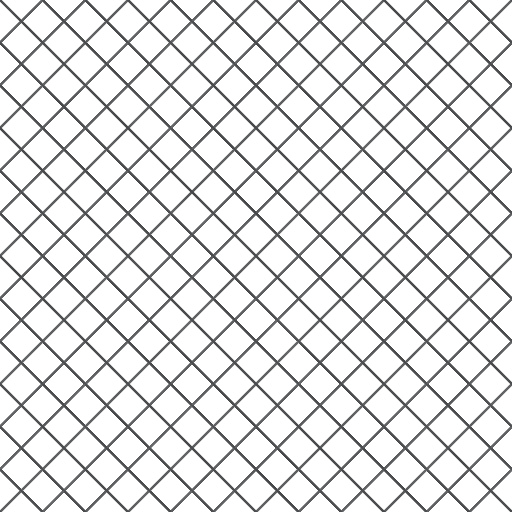
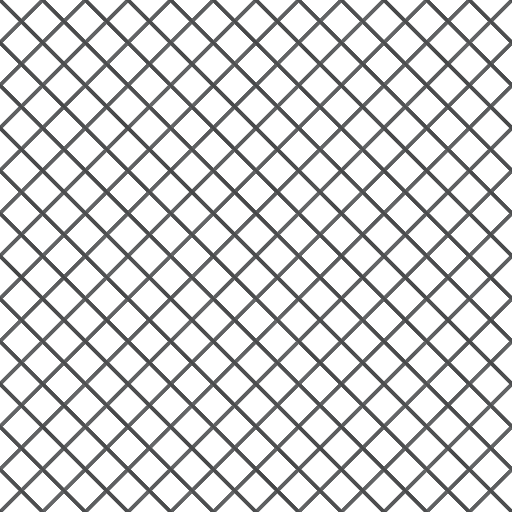
vehicle-pad round 2, part 7 (after the first game pictures): roads follow the ground down as well as up (a quarter metre of fill over the grade line, no floor at the pad plane), fill as crushed dark basalt (finer, no warm tint), heavier fence wire, stronger apron pools, the origin-gap check of the g

diff --git a/src/render/vehicle/site/ground.ts b/src/render/vehicle/site/ground.ts
@@ -120,9 +120,10 @@ export function stationsAlong(pts: [number, number][], spacing: number): Station
 /**
  * Grade line of a strip `halfWidth` wide along stations 2 m apart: over every station the highest ground
  * across the strip, then its running maximum over +-`reach` metres, smoothed over the same reach (the mean of
- * running maxima never falls under the ground it was taken from), never under `floor`.
+ * running maxima never falls under the ground it was taken from). The line follows the terrain down as well
+ * as up: a road is a hand's breadth of fill on the ground it crosses, not a causeway at the pad's level.
  */
-function gradeLine(ground: GroundField, st: Station[], halfWidth: number, reach: number, floor: number): number[] {
+function gradeLine(ground: GroundField, st: Station[], halfWidth: number, reach: number): number[] {
   const hi = st.map((q) => {
     let h = -Infinity;
     for (let k = -2; k <= 2; k++) h = Math.max(h, ground.hi(q.p[0] + (q.n[0] * halfWidth * k) / 2, q.p[1] + (q.n[1] * halfWidth * k) / 2));
@@ -142,7 +143,7 @@ function gradeLine(ground: GroundField, st: Station[], halfWidth: number, reach:
       sum += top[k]!;
       n++;
     }
-    return Math.max(floor, sum / n);
+    return sum / n;
   });
 }
 
@@ -184,14 +185,15 @@ function stoneField(b: MeshBuilder, ground: GroundField, cx: number, cz: number,
 }
 
 /**
- * Road along a plan path: a crowned asphalt strip on fill, stone shoulders that slope below the terrain,
- * and edge lines. `lift` lowers later roads by a hair where two meet (no two pavements in one plane).
+ * Road along a plan path: a crowned asphalt strip on `cover` metres of fill over its grade line, stone
+ * shoulders that slope below the terrain, and edge lines. `lift` lowers later roads by a hair where two
+ * meet (no two pavements in one plane).
  */
-function road(b: MeshBuilder, ground: GroundField, path: [number, number][], width: number, y: number, lift: number, grime: (x: number, z: number) => number): void {
+function road(b: MeshBuilder, ground: GroundField, path: [number, number][], width: number, cover: number, lift: number, grime: (x: number, z: number) => number): void {
   const hw = width / 2;
   const sh = 1.6;
   const fine = stationsAlong(path, 2);
-  const grade = gradeLine(ground, fine, hw + sh, 10, y);
+  const grade = gradeLine(ground, fine, hw + sh, 10);
   const every = b.pick(2, 4, 12);
   const pick: number[] = [];
   for (let i = 0; i < fine.length - 1; i += every) pick.push(i);
@@ -200,7 +202,7 @@ function road(b: MeshBuilder, ground: GroundField, path: [number, number][], wid
   const st = pick.map((i) => {
     let g = -Infinity;
     for (let k = Math.max(0, i - every + 1); k <= Math.min(fine.length - 1, i + every - 1); k++) g = Math.max(g, grade[k]!);
-    return { q: fine[i]!, y: g + 0.1 + lift };
+    return { q: fine[i]!, y: g + cover + lift };
   });
   // Offsets across the road and their heights over the grade: foot, shoulder top, edge, crown, edge, top, foot.
   const cross: [number, number][] = [
@@ -331,6 +333,9 @@ function berm(b: MeshBuilder, ground: GroundField, cx: number, cz: number, r: nu
   }
 }
 
+/** Fill and pavement of a road over the highest ground along it, m. */
+const ROAD_COVER = 0.25;
+
 /** Height of a road lamp post and the reach of its arm, m. */
 const POLE_HEIGHT = 9;
 const POLE_ARM = 1.8;
@@ -393,7 +398,8 @@ export const padGroundworks: SiteGenerator = ({ params, ground }) => {
       };
       stoneField(b, ground, p.x, p.z, 0.5, rr, y - 0.02, step, grime, 'stone');
     });
-    roads.forEach((r, i) => road(b, ground, r.path, r.width, y + 0.04, -0.014 * i, grime));
+    // (On the level areas the survey's upper bound is 5 cm, so a road meets a 0.3 m slab at its own height.)
+    roads.forEach((r, i) => road(b, ground, r.path, r.width, ROAD_COVER, -0.014 * i, grime));
     if (b.lod < 2) {
       b.mat('gravel-fill');
       tracks.forEach((t, i) => wheelTrack(b, ground, t, y, i));

diff --git a/tests/browser/vehicle/game.spec.ts b/tests/browser/vehicle/game.spec.ts
@@ -52,6 +52,9 @@ async function padPoints(page: Page, offsets: [number, number, number][]): Promi
   }, offsets);
 }
 
+/** Structure models that are built on the site's ground survey (they stand off the level areas of the pad shape). */
+const SURVEYED_MODELS = ['pad.groundworks', 'pad.fence', 'pad.pipeRun', 'pad.cameraTower', 'pad.vehicle'];
+
 interface PadView {
   name: string;
   /** Eye and target as east / north / up offsets from the pad centre, m. */
@@ -164,9 +167,10 @@ test.describe('vehicle and launch complex in the integrated game', () => {
   test('the terrain under every structure of a site is at the height the structure stands at', async ({ page }) => {
     const loaded = await open(page, 'scene=pad');
     test.skip(!loaded.includes('terrain'), 'needs the terrain package in the integration lab');
-    // The site feature stands every structure on the pad plane. That is right only where the terrain is
-    // flattened to the pad's elevation: measured here on the baked terrain at every structure's origin.
-    const gaps = await page.evaluate(async () => {
+    // The site feature stands every structure's origin on the pad plane. That is right only where the terrain
+    // is flattened to the pad's elevation: measured here on the baked terrain at the origin of every structure
+    // that is not built on the ground survey (those are checked against the survey below).
+    const gaps = await page.evaluate(async (onSurvey) => {
       const lab = (window as Lab).__integration!;
       const out: { model: string; gap: number }[] = [];
       for (const site of Object.values(lab.app.defs.sites)) {
@@ -174,13 +178,14 @@ test.describe('vehicle and launch complex in the integrated game', () => {
         const rad = Math.PI / 180;
         const padAlt = typeof site.location.padElevation === 'number' ? site.location.padElevation : await lab.groundHeight(site.bodyId, site.location.latDeg, site.location.lonDeg);
         for (const s of site.structures) {
+          if (onSurvey.includes(s.model)) continue;
           const lat = site.location.latDeg + s.offsetEnu[1] / (body.radius * rad);
           const lon = site.location.lonDeg + s.offsetEnu[0] / (body.radius * rad * Math.cos(site.location.latDeg * rad));
           out.push({ model: s.model, gap: (await lab.groundHeight(site.bodyId, lat, lon)) - padAlt });
         }
       }
       return out;
-    });
+    }, SURVEYED_MODELS);
     // Roads, fences, berms and pipe supports stand off the level areas, on the site's ground survey: the live
     // terrain must lie inside the survey's bounds wherever it is sampled (the unit tests hold every earthwork
     // above the upper bound and every foot below the lower one).

diff --git a/src/render/vehicle/materials.ts b/src/render/vehicle/materials.ts
@@ -138,8 +138,12 @@ const SPECS = {
   /** Refractory brick lining of the flame trench and deflector. */
   refractory: { color: [0.36, 0.25, 0.19], metallic: 0, roughness: 0.92, tile: [2.4, 2.4], tex: { a: 'tile_albedo', n: 'tile_n', o: 'tile_orm' } },
   gravel: { color: [1, 1, 1], metallic: 0, roughness: 0.95, tile: [3, 3], tex: { a: 'gravel_albedo', n: 'gravel_n', o: 'gravel_orm' }, shading: 'terrain' },
-  /** Compacted crushed-stone fill of the graded area round the hardstand (the same stone, darker and dustier). */
-  'gravel-fill': { color: [0.74, 0.7, 0.66], metallic: 0, roughness: 0.96, tile: [3, 3], tex: { a: 'gravel_albedo', n: 'gravel_n', o: 'gravel_orm' }, shading: 'terrain' },
+  /**
+   * Compacted crushed-stone fill of earthworks (the graded area round the hardstand, road shoulders and
+   * embankments, berms): the aggregate of the place, crushed dark basalt, half the size of the crawlerway's
+   * river rock and without its warm tint, so that fill reads as worked ground of the lava field it lies on.
+   */
+  'gravel-fill': { color: [0.4, 0.425, 0.48], metallic: 0, roughness: 0.96, tile: [1.6, 1.6], tex: { a: 'gravel_albedo', n: 'gravel_n', o: 'gravel_orm' }, shading: 'terrain' },
   asphalt: { color: [1, 1, 1], metallic: 0, roughness: 0.9, tile: [6, 6], tex: { a: 'asphalt_albedo', n: 'asphalt_n', o: 'asphalt_orm' }, shading: 'terrain' },
   /** Painted steel deck plate of the launch mount and platforms. */
   'deck-plate': { color: [1, 1, 1], metallic: 0, roughness: 0.78, tile: [7.2, 7.2], tex: { a: 'deck_albedo', n: 'deck_n', o: 'deck_orm' } },

diff --git a/tools/vehicle/bake-textures.ts b/tools/vehicle/bake-textures.ts
@@ -1010,7 +1010,7 @@ const recipes: Record<string, () => void> = {
     save('grate_orm', orm(S, S, (u, v) => [clamp(0.25 + 0.75 * bar(u, v)), 0.9, bar(u, v)]));
   },
 
-  // Chain-link fence fabric, tile 0.6 m: twelve 50 mm diamonds of 3.5 mm galvanised wire, woven (the wires
+  // Chain-link fence fabric, tile 0.6 m: twelve 50 mm diamonds of heavy galvanised wire, woven (the wires
   // of the two directions pass over and under each other at the knuckles).
   chainlink() {
     const S = 512;
@@ -1018,8 +1018,8 @@ const recipes: Record<string, () => void> = {
     const wire = (u: number, v: number): { k: number; over: number } => {
       const a = Math.abs(mod((u + v) * N, 1) - 0.5);
       const b = Math.abs(mod((u - v) * N, 1) - 0.5);
-      const wa = smooth(0.445, 0.47, a);
-      const wb = smooth(0.445, 0.47, b);
+      const wa = smooth(0.42, 0.45, a);
+      const wb = smooth(0.42, 0.45, b);
       return { k: Math.max(wa, wb), over: wa > wb ? 1 : 0.8 };
     };
     const h = Field.from(S, S, (u, v) => {

diff --git a/src/render/vehicle/site/pad.ts b/src/render/vehicle/site/pad.ts
@@ -844,7 +844,7 @@ export const padFloodlight: SiteGenerator = ({ params }) => {
       dir: [0, -0.8, -0.6],
       cone: [numParam(params, 'apronInnerDeg', 28) * DEG, numParam(params, 'apronOuterDeg', 64) * DEG],
       radius: 1.2,
-      intensity: [candela * 0.035, candela * 0.034, candela * 0.032],
+      intensity: [candela * 0.08, candela * 0.078, candela * 0.074],
       range: 110,
     },
   ];
